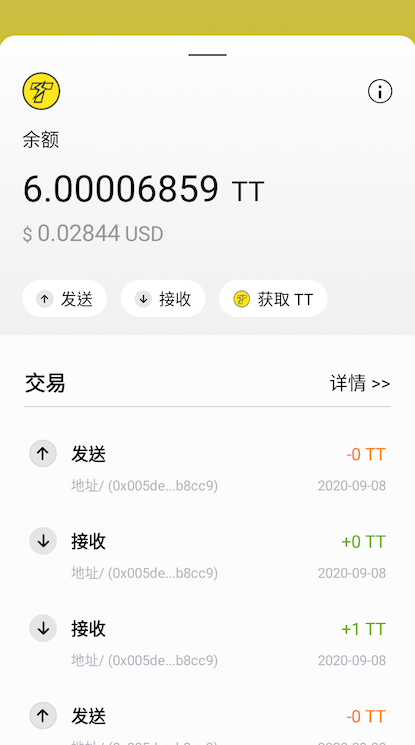
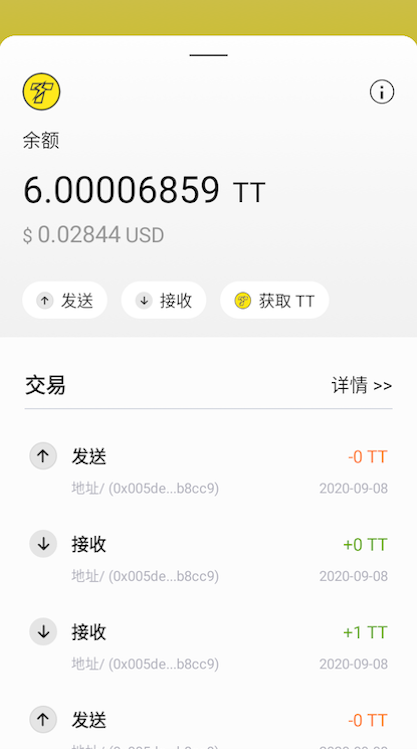
Update the Photos of New Hub to Tutorials

diff --git a/docs-en/get-wallet.md b/docs-en/get-wallet.md
@@ -30,7 +30,7 @@ Check out [ThunderCore Hub](https://www.thundercore.com/thundercore-hub/) on Thu
 
 Also, you can `Send` or `Receive` your TT  and `buy TT` via this page.
 
-![alt-text](assets/img/new_hub_en/wallet_en.PNG)
+![alt-text](assets/img/new_hub_en/wallet_en.png)
 
 4. You can check out announcement, change your wallet language or set up the passcode on the Settings page.
 
@@ -56,7 +56,7 @@ Click `Send` to proceed if it is all correct.
 
 To receive token, click the `Receive` button then you will see as below:
 
-![alt-text](assets/img/new_hub_en/wallet_en.PNG)
+![alt-text](assets/img/new_hub_en/wallet_en.png)
 
 You can set an amount if you want to receive a specific amount from another address.
 
